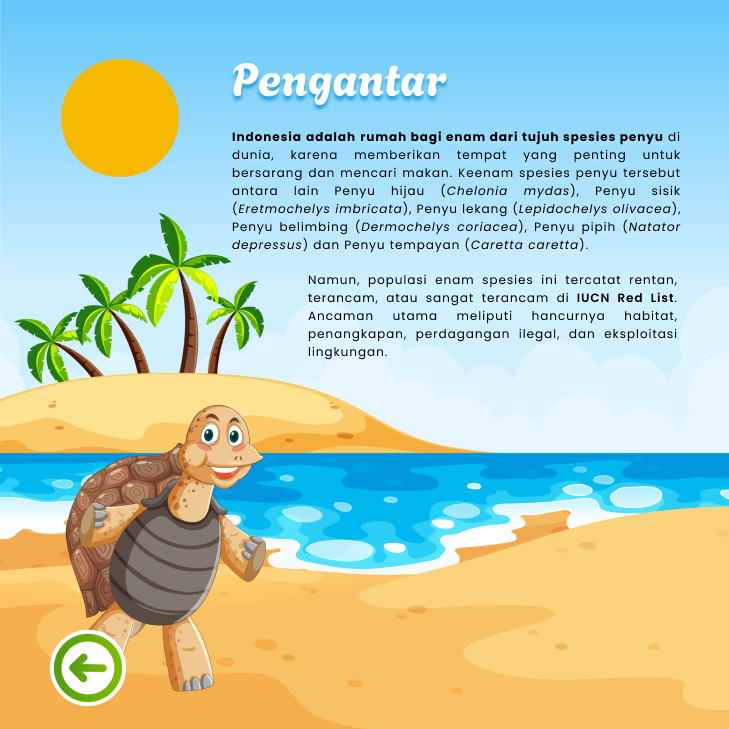
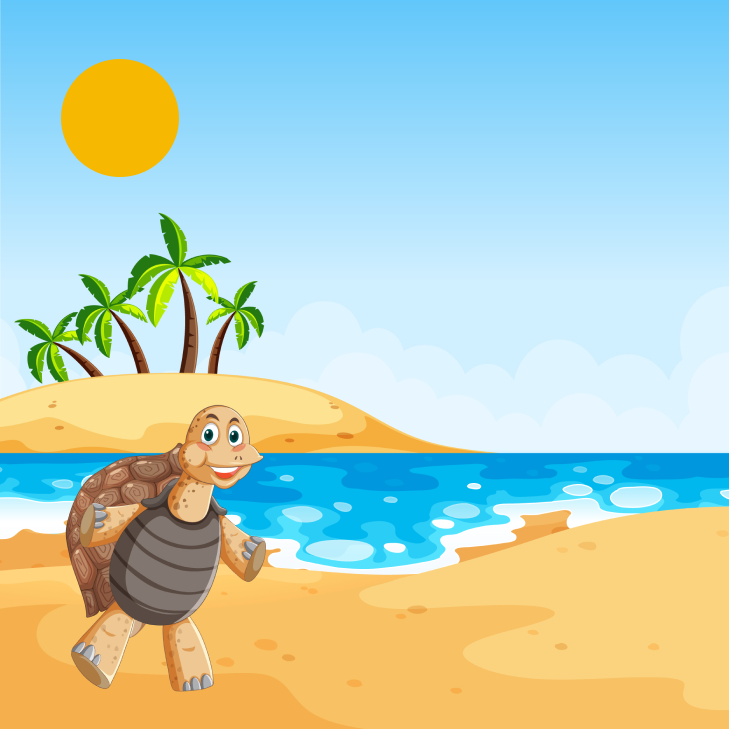
save

Changed region(s): [[0.3018, 0.1811, 0.9355, 0.513], [0.3018, 0.0905, 0.6337, 0.1509], [0.0604, 0.845, 0.1811, 0.9657]]

diff --git a/index.html b/index.html
@@ -31,7 +31,15 @@
               <div class="h-full w-full bg-cover p-8" style="background-image: url(&quot;./public/asset/page2.png&quot;)"></div>
             </div>
             <div class="back-page" data-page="1">
-              <div class="h-full w-full bg-cover p-8" style="background-image: url(&quot;./public/asset/page3.png&quot;)"></div>
+              <div class="h-full w-full bg-cover px-8" style="background-image: url(&quot;./public/asset/page3.png&quot;)">
+                <h1 class="pb-4 pt-4 font-agbalumo text-3xl text-white [text-shadow:_0_4px_4px_rgb(3_140_203_/_0.75)]">Definisi Penyu</h1>
+                <p class="text-justify font-poppins text-xs tracking-wider"><b>Penyu</b> adalah reptil laut yang termasuk kelompok <b>hewan vertebrata</b> (memiliki tulang belakang) kelas reptilia ordo testudinata. Penyu sudah ada sejak akhir zaman Kapur atau seusia dengan dinosaurus. Fosil penyu tertua setidaknya berumur 120 juta tahun. Mereka menghuni <b>perairan laut tropis</b> dan <b>sub tropis</b> di seluruh dunia.</p>
+                <p class="max-w-[300px] text-wrap pt-4 text-justify font-poppins text-xs tracking-wider">
+                  Tempurungnya terdiri atas tempurung bagian atas (carapace) dan bagian bawah (plastor). Berbeda dengan kura kura,
+                  <b>penyu tidak dapat memasukkan kaki</b> dan
+                  <b>kepalanya ke dalam tempurungnya.</b>
+                </p>
+              </div>
             </div>
           </div>
           <div class="page">
